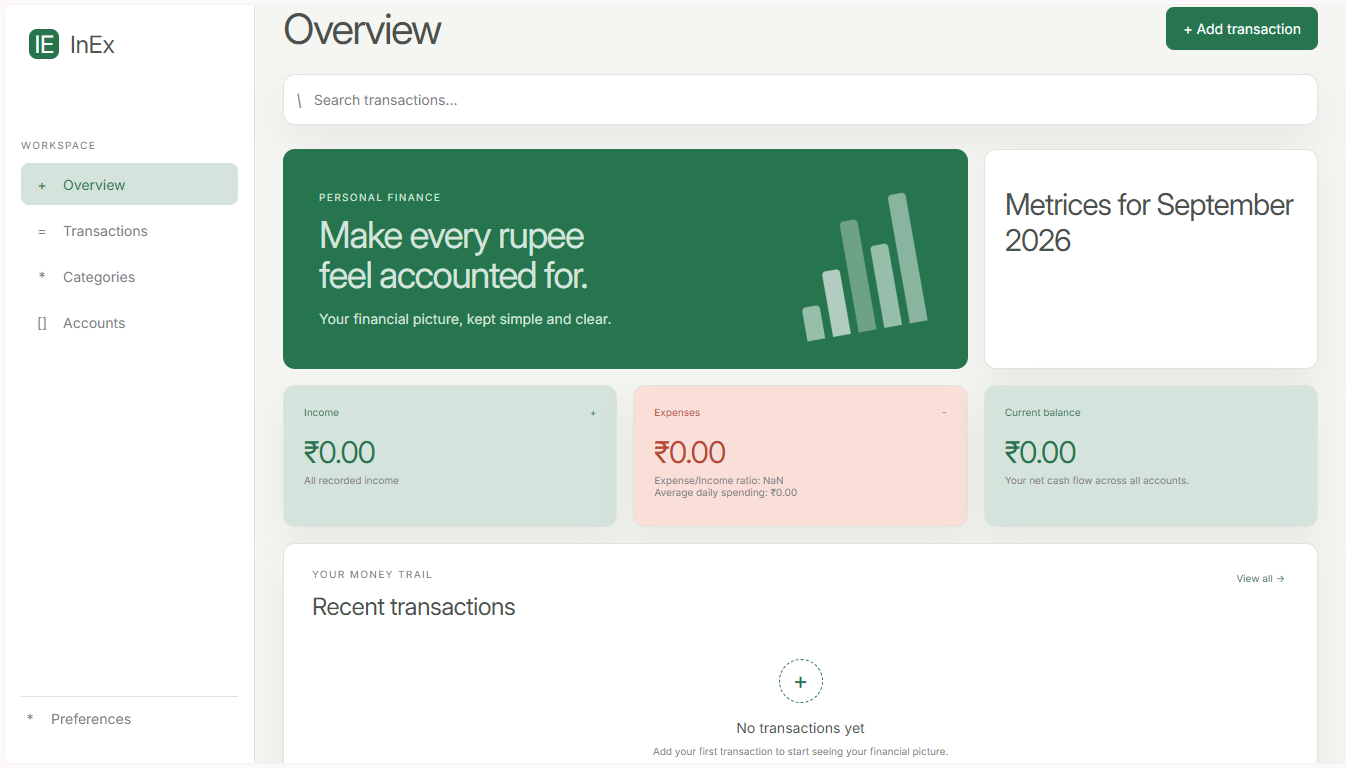
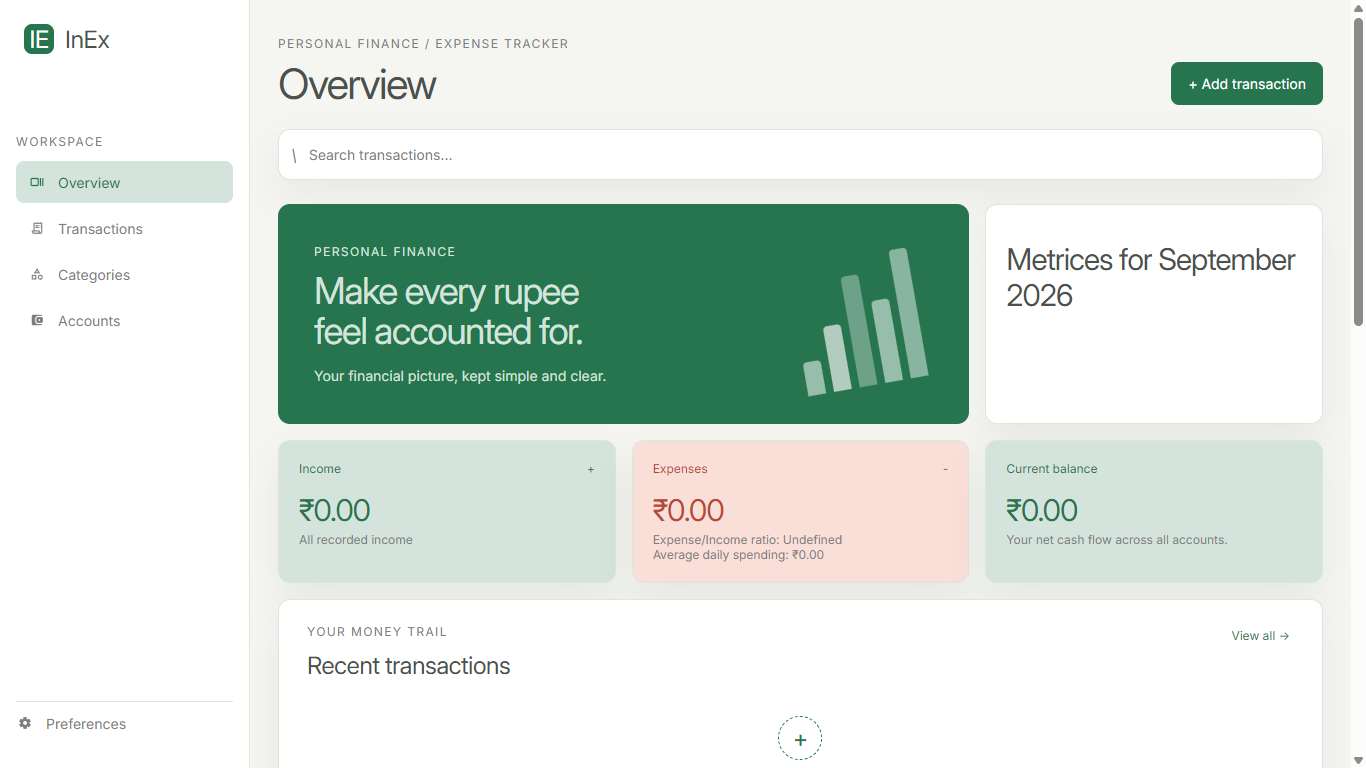
docs: update readme

diff --git a/README.md b/README.md
@@ -94,6 +94,10 @@ The repository is organized around the application entry point, reusable interfa
 src/
   components/    Reusable application views and interface components
   utils/         Shared data, file, currency, and storage helpers
+  icons/         App icons
+  hooks/         Hooks for managing app state and transaction filters
+  context/       Modal context used by app
+  pages/         Page views
   App.tsx        Application composition
   models.ts      Shared data models
   constants.ts   Shared application constants
